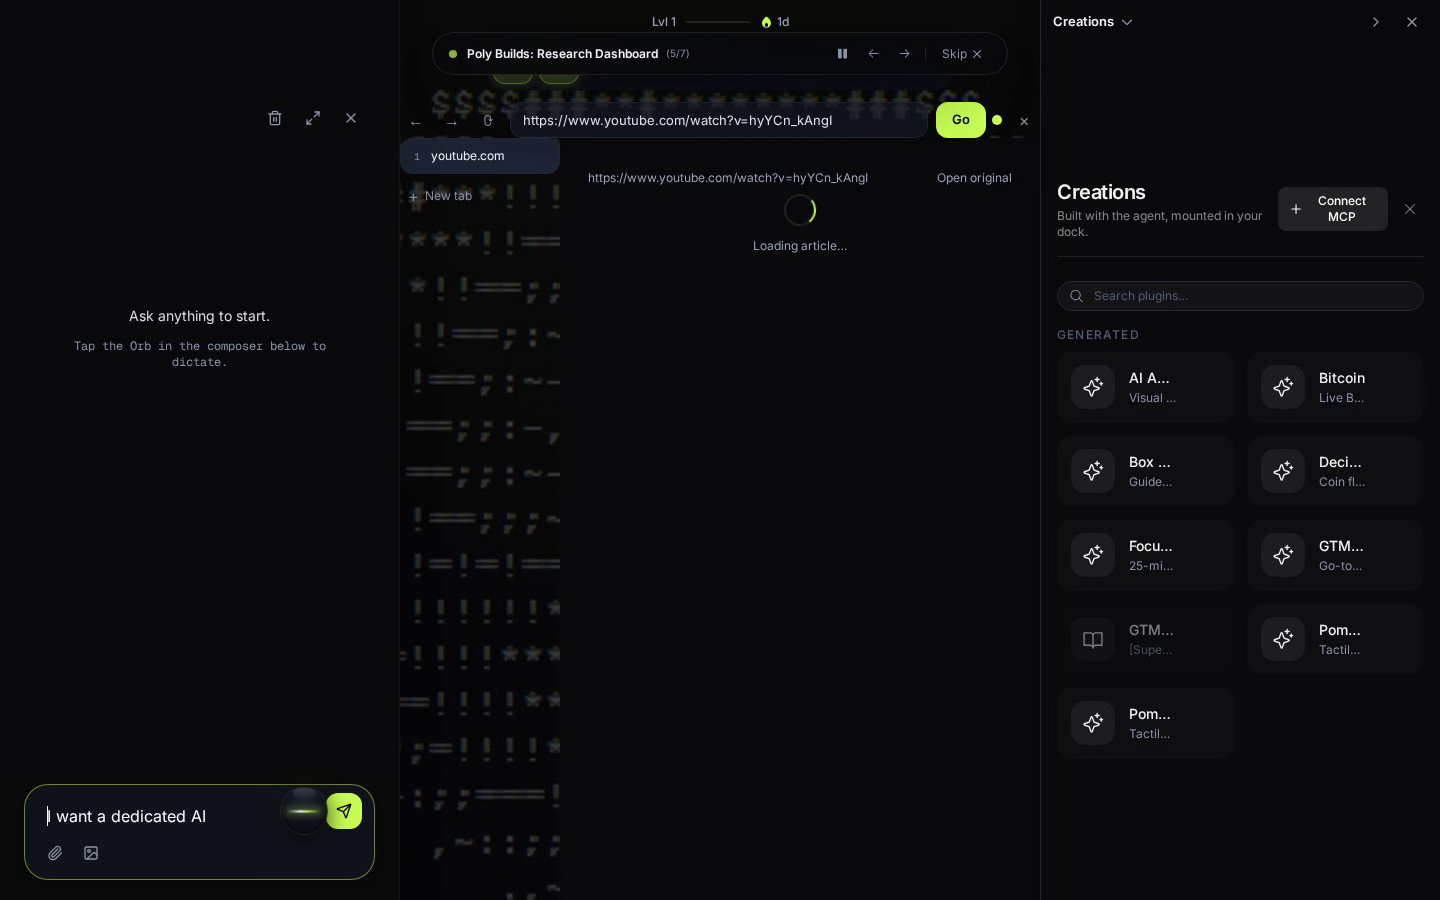
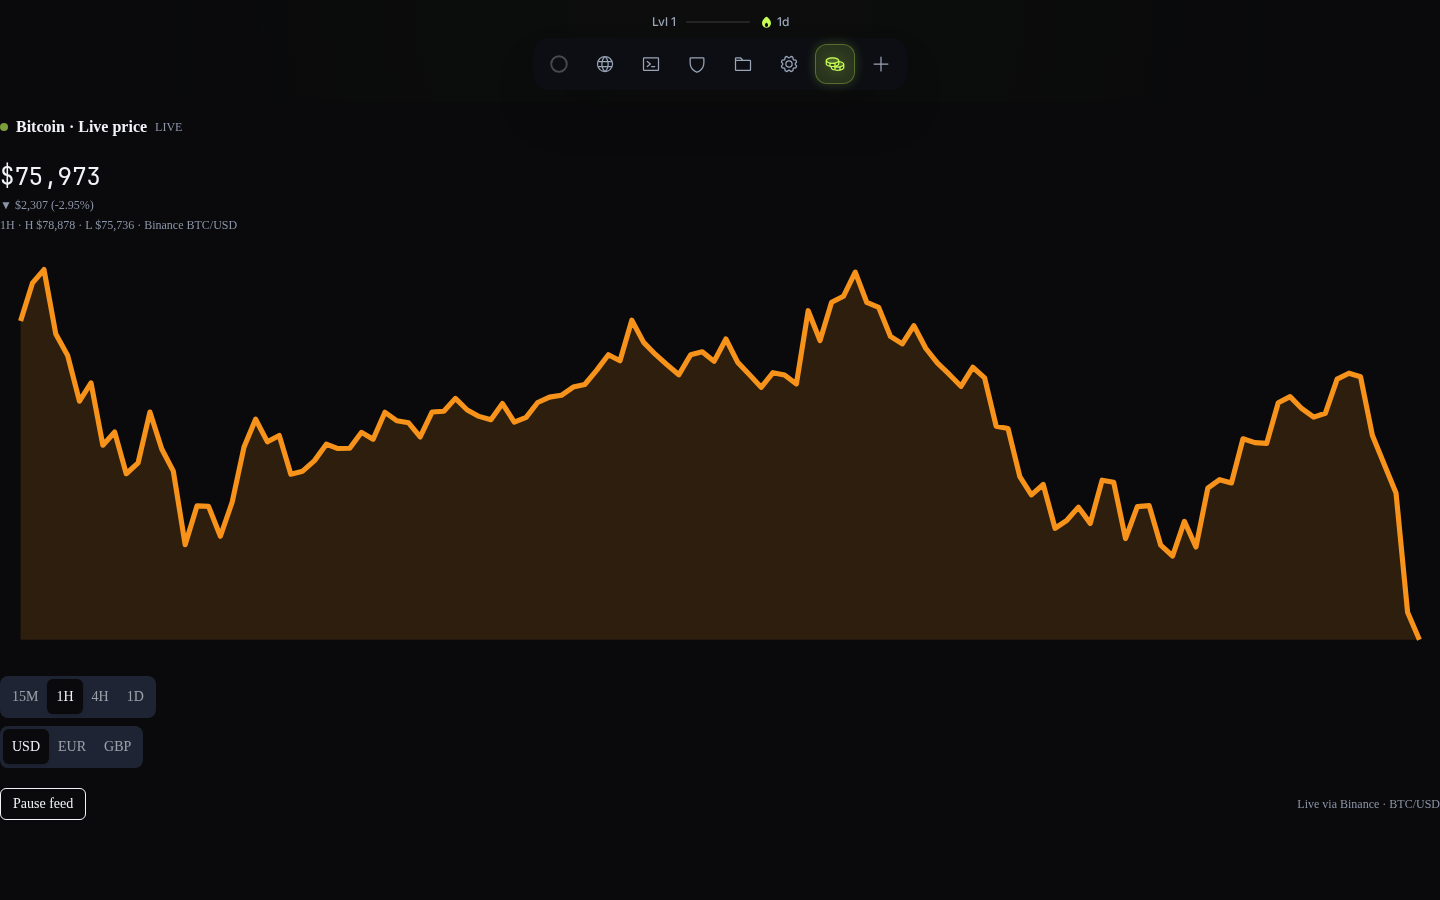
docs: tour gif hero, live Bitcoin tool shot in README

diff --git a/README.md b/README.md
@@ -4,7 +4,8 @@
 
 *Software that adapts to your work.*
 
-![Poly opens a note by title, selecting it in the dock](docs/assets/hero.gif)
+![Scripted product tour: Poly drives the dock, zero tokens](docs/assets/tour.gif)
+*The scripted product tour plays the whole workspace — dock, themes, research feed, reader, dashboard, notes — with zero model calls. Press play and watch.*
 
 > 🎬 Watch: [Full product walkthrough](docs/media/videos/polydocks-product-walkthrough.mp4)
 
@@ -31,7 +32,7 @@ PolyDocks is an agentic workspace where AI doesn't stop at using existing tools.
 *Poly researches the web: the prompt ghost-types into the composer while the feed fills up beside the stage.*
 
 ![A tool Poly built](docs/assets/tour-build.png)
-*Creations the agent built, next to the reader with a video open: generated, themed, live in the dock. Roll back if you don't like it.*
+*The Bitcoin viewer Poly built: live prices, chart, currency switch — generated, themed, live in the dock. Roll back if you don't like it.*
 
 ![Notes that survive reload](docs/assets/notes-app.png)
 *Title and body autosave with a visible save state; flush on exit keeps the last keystrokes.*
